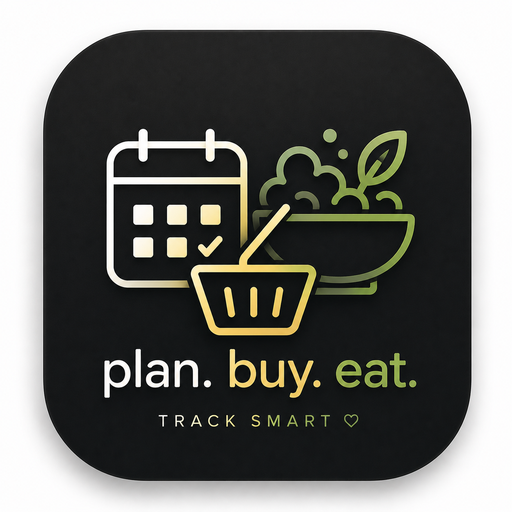
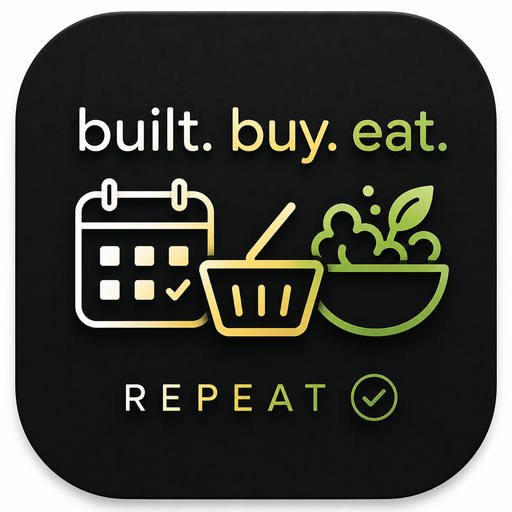
Add files via upload

diff --git a/index.html b/index.html
@@ -269,6 +269,15 @@ body{font-family:'Segoe UI',system-ui,-apple-system,sans-serif;background:var(--
 .recipe-expand.open{display:block}
 .recipe-ing-list{font-size:0.82rem;margin-bottom:10px}
 .recipe-ing-list div{padding:3px 0;border-bottom:1px solid var(--border)}
+.recipe-slot-group{margin-bottom:8px}
+.recipe-slot-label{font-size:0.72rem;font-weight:700;text-transform:uppercase;color:var(--text-light);margin-bottom:2px;display:flex;align-items:center;gap:4px}
+.recipe-slot-item{display:flex;align-items:center;justify-content:space-between;padding:4px 0}
+.recipe-slot-item .swap-btn{font-size:0.7rem;padding:2px 8px;border-radius:6px;border:1px solid var(--border);background:var(--bg);color:var(--text-light);cursor:pointer}
+.recipe-slot-item .swap-btn:hover{border-color:var(--primary);color:var(--primary)}
+.recipe-template-grid{display:grid;grid-template-columns:1fr 1fr;gap:8px;margin-bottom:12px}
+.recipe-template-btn{padding:10px;border:1.5px solid var(--border);border-radius:8px;background:var(--card);cursor:pointer;text-align:left;font-size:0.82rem;font-weight:600;transition:all .2s}
+.recipe-template-btn:hover{border-color:var(--primary);background:var(--primary-light)}
+.recipe-template-btn small{display:block;font-weight:400;color:var(--text-light);font-size:0.72rem;margin-top:2px}
 .recipe-totals{display:flex;gap:8px;flex-wrap:wrap;padding:8px 10px;background:var(--card);border-radius:8px;font-size:0.78rem;color:var(--text-light);margin-bottom:8px}
 .recipe-totals strong{color:var(--text)}
 .recipe-from-pantry{padding:16px 20px;background:var(--card);border-top:1px solid var(--border)}
@@ -573,14 +582,16 @@ body{font-family:'Segoe UI',system-ui,-apple-system,sans-serif;background:var(--
 <div class="modal-overlay" id="recipeModal">
   <div class="modal" style="max-width:540px">
     <h3 id="recipeModalTitle">Neues Rezept</h3>
+    <div id="rmTemplates"></div>
     <div class="form-group"><label>Rezeptname</label><input id="rmName" placeholder="z.B. Chili con Carne"></div>
-    <div class="form-group"><label>Gesamtportionen</label>
+    <div class="form-group"><label>Portionen</label>
       <div class="stepper" style="display:inline-flex"><button onclick="stepVal('rmPortions',-1,1)">-</button><input type="number" id="rmPortions" value="4" min="1" max="20" step="1"><button onclick="stepVal('rmPortions',1,1)">+</button></div>
     </div>
     <div class="form-group"><label>Zutaten</label><div id="rmIngredients"></div>
       <button style="margin-top:6px;padding:6px 12px;border-radius:8px;font-size:0.78rem;font-weight:600;cursor:pointer;border:1.5px solid var(--border);background:var(--bg);color:var(--text-light)" onclick="addRecipeIngRow()">+ Zutat</button>
     </div>
     <div class="recipe-totals" id="rmTotals"></div>
+    <div class="form-group"><label>Notizen (optional)</label><textarea id="rmNotizen" rows="2" placeholder="Zubereitungshinweise..." style="width:100%;padding:8px 12px;border:1.5px solid var(--border);border-radius:8px;font-size:0.85rem;font-family:inherit;resize:vertical"></textarea></div>
     <div class="modal-actions">
       <button class="btn-cancel" onclick="closeRecipeModal()">Abbrechen</button>
       <button class="btn-save" onclick="saveRecipe()">Speichern</button>
@@ -714,6 +725,51 @@ const CATEGORIES = [
   {id:'protein',label:'Protein'},{id:'legumes',label:'Hülsenfr.'},
   {id:'grains',label:'Getreide'},{id:'dairy',label:'Milch'},
   {id:'fats',label:'Fette'},{id:'other',label:'Sonstiges'},
+];
+
+const RECIPE_ROLES = [
+  {id:'protein',label:'Protein',icon:'🥩',cats:['protein','legumes']},
+  {id:'veg',label:'Gemüse',icon:'🥦',cats:['veg']},
+  {id:'beilage',label:'Beilage',icon:'🍚',cats:['grains']},
+  {id:'extras',label:'Extras',icon:'🫙',cats:['fats','dairy','other','fruit']}
+];
+
+const RECIPE_TEMPLATES = [
+  {name:'Gemüsepfanne',totalPortions:4,ingredients:[
+    {foodId:'chicken',amountG:400,rolle:'protein'},{foodId:'bellpepper',amountG:200,rolle:'veg'},
+    {foodId:'zucchini',amountG:200,rolle:'veg'},{foodId:'rice',amountG:320,rolle:'beilage'},
+    {foodId:'olive_oil',amountG:15,rolle:'extras'}
+  ],notizen:'Gemüse knackig anbraten, Reis separat kochen.'},
+  {name:'Pasta mit Sauce',totalPortions:4,ingredients:[
+    {foodId:'beef',amountG:300,rolle:'protein'},{foodId:'tomato',amountG:300,rolle:'veg'},
+    {foodId:'bellpepper',amountG:150,rolle:'veg'},{foodId:'pasta',amountG:320,rolle:'beilage'},
+    {foodId:'olive_oil',amountG:15,rolle:'extras'}
+  ],notizen:'Hack anbraten, Gemüse dazu, mit Tomaten köcheln.'},
+  {name:'Buddha Bowl',totalPortions:2,ingredients:[
+    {foodId:'tofu',amountG:200,rolle:'protein'},{foodId:'spinach',amountG:100,rolle:'veg'},
+    {foodId:'carrot',amountG:100,rolle:'veg'},{foodId:'avocado',amountG:75,rolle:'veg'},
+    {foodId:'quinoa',amountG:120,rolle:'beilage'},{foodId:'olive_oil',amountG:10,rolle:'extras'}
+  ],notizen:'Quinoa kochen, Tofu anbraten, alles in Bowl anrichten.'},
+  {name:'Salat mit Protein',totalPortions:2,ingredients:[
+    {foodId:'chicken',amountG:250,rolle:'protein'},{foodId:'iceberg',amountG:200,rolle:'veg'},
+    {foodId:'tomato',amountG:150,rolle:'veg'},{foodId:'cucumber',amountG:100,rolle:'veg'},
+    {foodId:'feta',amountG:60,rolle:'extras'},{foodId:'olive_oil',amountG:15,rolle:'extras'}
+  ],notizen:'Hähnchen braten, Salat anrichten, Dressing drüber.'},
+  {name:'Ofengemüse mit Beilage',totalPortions:4,ingredients:[
+    {foodId:'chicken',amountG:400,rolle:'protein'},{foodId:'sweetpotato',amountG:400,rolle:'veg'},
+    {foodId:'broccoli',amountG:300,rolle:'veg'},{foodId:'bellpepper',amountG:200,rolle:'veg'},
+    {foodId:'olive_oil',amountG:20,rolle:'extras'}
+  ],notizen:'Alles würzen, bei 200°C ca. 25 Min. im Ofen.'},
+  {name:'Eintopf / Suppe',totalPortions:6,ingredients:[
+    {foodId:'red_lentils',amountG:200,rolle:'protein'},{foodId:'carrot',amountG:200,rolle:'veg'},
+    {foodId:'zucchini',amountG:200,rolle:'veg'},{foodId:'potato',amountG:300,rolle:'beilage'},
+    {foodId:'olive_oil',amountG:15,rolle:'extras'}
+  ],notizen:'Alles in Topf, mit Brühe aufgießen, 20 Min. köcheln.'},
+  {name:'Wrap / Tortilla',totalPortions:4,ingredients:[
+    {foodId:'chicken',amountG:300,rolle:'protein'},{foodId:'iceberg',amountG:100,rolle:'veg'},
+    {foodId:'tomato',amountG:150,rolle:'veg'},{foodId:'bellpepper',amountG:100,rolle:'veg'},
+    {foodId:'gouda',amountG:60,rolle:'extras'}
+  ],notizen:'Hähnchen braten, alles in Tortilla wickeln.'}
 ];
 
 // ============================================================
@@ -1656,9 +1712,22 @@ function renderRecipes() {
   if (recipes.length===0) { h='<div class="plan-empty">Noch keine Rezepte erstellt.</div>'; }
   else { recipes.forEach(r => {
     const ex=expandedRecipe===r.id, n=recipeNutritionPerPortion(r);
-    h+='<div class="recipe-card"><div class="recipe-main" onclick="toggleRecipeExpand(\''+r.id+'\')"><div><div class="recipe-name">'+r.name+'</div><div class="recipe-meta">'+r.totalPortions+' Portionen | '+r.ingredients.length+' Zutaten | '+n.kcal+'kcal/Port.</div></div><button class="food-add-btn">'+(ex?'&minus;':'+')+'</button></div>';
+    h+='<div class="recipe-card"><div class="recipe-main" onclick="toggleRecipeExpand(\''+r.id+'\')"><div><div class="recipe-name">'+r.name+'</div><div class="recipe-meta">'+r.totalPortions+' Portionen | '+r.ingredients.length+' Zutaten | '+n.kcal+' kcal/Port.</div></div><button class="food-add-btn">'+(ex?'&minus;':'+')+'</button></div>';
     if (ex) {
-      h+='<div class="recipe-expand open"><div class="recipe-ing-list">'+r.ingredients.map(ing=>{const f=getFood(ing.foodId);return '<div>'+ing.amountG+'g '+(f?f.n:'?')+'</div>';}).join('')+'</div>';
+      h+='<div class="recipe-expand open">';
+      // Group ingredients by rolle
+      var grouped={};
+      r.ingredients.forEach(function(ing){var role=ing.rolle||'extras';if(!grouped[role])grouped[role]=[];grouped[role].push(ing);});
+      RECIPE_ROLES.forEach(function(role){
+        var items=grouped[role.id];if(!items||items.length===0)return;
+        h+='<div class="recipe-slot-group"><div class="recipe-slot-label">'+role.icon+' '+role.label+'</div>';
+        items.forEach(function(ing,ii){
+          var f=getFood(ing.foodId);
+          h+='<div class="recipe-slot-item"><span>'+ing.amountG+'g '+(f?f.n:'?')+'</span><button class="swap-btn" onclick="event.stopPropagation();openSwapUI(\''+r.id+'\',\''+role.id+'\','+r.ingredients.indexOf(ing)+')">&#8644;</button></div>';
+        });
+        h+='</div>';
+      });
+      if(r.notizen) h+='<div style="font-size:0.8rem;color:var(--text-light);margin:8px 0;font-style:italic">'+r.notizen+'</div>';
       h+='<div class="recipe-totals">Pro Portion: <strong>'+n.kcal+' kcal</strong> | '+n.p+'g E | '+n.f+'g F | '+n.c+'g KH</div>';
       h+='<button class="btn-add" onclick="addRecipeToShop(\''+r.id+'\')">Zutaten einkaufen</button>';
       h+='<div class="food-expand-actions"><button onclick="addRecipeToPlan(\''+r.id+'\')">Zum Wochenplan</button><button onclick="openRecipeModal(\''+r.id+'\')">Bearbeiten</button><button class="btn-delete" onclick="deleteRecipe(\''+r.id+'\')">Löschen</button></div></div>';
@@ -1871,46 +1940,115 @@ document.getElementById('customModal').addEventListener('click',function(e){if(e
 // ===== RECIPE MODAL =====
 function openRecipeModal(recipeId) {
   editingRecipeId=recipeId||null; recipeIngRows=[];
-  if(editingRecipeId){const r=getRecipe(editingRecipeId);if(!r)return;document.getElementById('rmName').value=r.name;document.getElementById('rmPortions').value=r.totalPortions;recipeIngRows=r.ingredients.map(i=>({foodId:i.foodId,amountG:i.amountG}));document.getElementById('recipeModalTitle').textContent='Rezept bearbeiten';}
-  else{document.getElementById('rmName').value='';document.getElementById('rmPortions').value='4';recipeIngRows=[{foodId:'',amountG:100}];document.getElementById('recipeModalTitle').textContent='Neues Rezept';}
+  if(editingRecipeId){
+    const r=getRecipe(editingRecipeId);if(!r)return;
+    document.getElementById('rmName').value=r.name;
+    document.getElementById('rmPortions').value=r.totalPortions;
+    document.getElementById('rmNotizen').value=r.notizen||'';
+    recipeIngRows=r.ingredients.map(function(i){return{foodId:i.foodId,amountG:i.amountG,rolle:i.rolle||'extras'};});
+    document.getElementById('recipeModalTitle').textContent='Rezept bearbeiten';
+  } else {
+    document.getElementById('rmName').value='';document.getElementById('rmPortions').value='4';
+    document.getElementById('rmNotizen').value='';
+    recipeIngRows=[{foodId:'',amountG:100,rolle:'protein'}];
+    document.getElementById('recipeModalTitle').textContent='Neues Rezept';
+  }
+  renderTemplateButtons();
   renderRecipeIngRows(); document.getElementById('recipeModal').classList.add('open');
 }
 function closeRecipeModal(){document.getElementById('recipeModal').classList.remove('open');editingRecipeId=null;}
 document.getElementById('recipeModal').addEventListener('click',function(e){if(e.target===this)closeRecipeModal();});
-function addRecipeIngRow(){recipeIngRows.push({foodId:'',amountG:100});renderRecipeIngRows();}
+
+function renderTemplateButtons() {
+  if(editingRecipeId){document.getElementById('rmTemplates').innerHTML='';return;}
+  var h='<div style="margin-bottom:12px"><div style="font-size:0.75rem;font-weight:700;text-transform:uppercase;letter-spacing:0.04em;color:var(--text-muted);margin-bottom:6px">Vorlage wählen</div><div class="recipe-template-grid">';
+  RECIPE_TEMPLATES.forEach(function(t,i){
+    h+='<button class="recipe-template-btn" onclick="loadTemplate('+i+')">'+t.name+'</button>';
+  });
+  h+='</div></div>';
+  document.getElementById('rmTemplates').innerHTML=h;
+}
+
+function loadTemplate(idx) {
+  var t=RECIPE_TEMPLATES[idx];if(!t)return;
+  document.getElementById('rmName').value=t.name;
+  document.getElementById('rmPortions').value=t.totalPortions;
+  document.getElementById('rmNotizen').value=t.notizen||'';
+  recipeIngRows=t.ingredients.map(function(i){return{foodId:i.foodId,amountG:i.amountG,rolle:i.rolle||'extras'};});
+  renderRecipeIngRows();
+  showToast('Vorlage "'+t.name+'" geladen');
+}
+
+function addRecipeIngRow(){recipeIngRows.push({foodId:'',amountG:100,rolle:'protein'});renderRecipeIngRows();}
 function removeRecipeIngRow(idx){recipeIngRows.splice(idx,1);renderRecipeIngRows();}
 
 function renderRecipeIngRows() {
-  const af=foods.filter(f=>!deletedFoods.has(f.id)).sort((a,b)=>a.n.localeCompare(b.n,'de'));
-  const opts='<option value="">-- Wählen --</option>'+af.map(f=>'<option value="'+f.id+'">'+f.n+'</option>').join('');
-  document.getElementById('rmIngredients').innerHTML=recipeIngRows.map((row,i)=>
-    '<div class="recipe-ing-row"><select onchange="recipeIngRows['+i+'].foodId=this.value;updateRecipeTotals()">'+opts.replace('value="'+row.foodId+'"','value="'+row.foodId+'" selected')+'</select><input type="number" value="'+row.amountG+'" min="1" step="10" placeholder="g" onchange="recipeIngRows['+i+'].amountG=parseInt(this.value)||0;updateRecipeTotals()"><span style="font-size:0.78rem;color:var(--text-light)">g</span><button onclick="removeRecipeIngRow('+i+')">&times;</button></div>'
-  ).join('');
+  var af=foods.filter(function(f){return !deletedFoods.has(f.id);}).sort(function(a,b){return a.n.localeCompare(b.n,'de');});
+  var foodOpts='<option value="">-- Wählen --</option>'+af.map(function(f){return '<option value="'+f.id+'">'+f.n+'</option>';}).join('');
+  var roleOpts=RECIPE_ROLES.map(function(r){return '<option value="'+r.id+'">'+r.icon+' '+r.label+'</option>';}).join('');
+  document.getElementById('rmIngredients').innerHTML=recipeIngRows.map(function(row,i){
+    return '<div class="recipe-ing-row" style="display:flex;gap:4px;align-items:center;margin-bottom:4px">'
+      +'<select style="width:80px;flex-shrink:0" onchange="recipeIngRows['+i+'].rolle=this.value">'+roleOpts.replace('value="'+row.rolle+'"','value="'+row.rolle+'" selected')+'</select>'
+      +'<select style="flex:1" onchange="recipeIngRows['+i+'].foodId=this.value;updateRecipeTotals()">'+foodOpts.replace('value="'+row.foodId+'"','value="'+row.foodId+'" selected')+'</select>'
+      +'<input type="number" value="'+row.amountG+'" min="1" step="10" placeholder="g" style="width:55px" onchange="recipeIngRows['+i+'].amountG=parseInt(this.value)||0;updateRecipeTotals()">'
+      +'<span style="font-size:0.78rem;color:var(--text-light)">g</span>'
+      +'<button onclick="removeRecipeIngRow('+i+')" style="background:none;border:none;font-size:1.1rem;cursor:pointer;color:var(--danger);padding:2px 4px">&times;</button></div>';
+  }).join('');
   updateRecipeTotals();
 }
 
 function updateRecipeTotals() {
-  const portions=parseInt(document.getElementById('rmPortions')?.value)||1;
-  let t={kcal:0,p:0,f:0,c:0};
-  recipeIngRows.forEach(row=>{const food=getFood(row.foodId);if(!food)return;const m=row.amountG/100;t.kcal+=food.k*m;t.p+=food.p*m;t.f+=food.f*m;t.c+=food.c*m;});
+  var portions=parseInt(document.getElementById('rmPortions')?.value)||1;
+  var t={kcal:0,p:0,f:0,c:0};
+  recipeIngRows.forEach(function(row){var food=getFood(row.foodId);if(!food)return;var m=row.amountG/100;t.kcal+=food.k*m;t.p+=food.p*m;t.f+=food.f*m;t.c+=food.c*m;});
   document.getElementById('rmTotals').innerHTML='Pro Portion: <strong>'+Math.round(t.kcal/portions)+' kcal</strong> | '+Math.round(t.p/portions)+'g E | '+Math.round(t.f/portions)+'g F | '+Math.round(t.c/portions)+'g KH';
 }
 
 function saveRecipe() {
-  const name=document.getElementById('rmName').value.trim();
+  var name=document.getElementById('rmName').value.trim();
   if(!name){showToast('Bitte Rezeptname eingeben');return;}
-  const totalPortions=parseInt(document.getElementById('rmPortions').value)||4;
-  const ingredients=recipeIngRows.filter(r=>r.foodId&&r.amountG>0).map(r=>({foodId:r.foodId,amountG:r.amountG}));
+  var totalPortions=parseInt(document.getElementById('rmPortions').value)||4;
+  var notizen=document.getElementById('rmNotizen').value.trim();
+  var ingredients=recipeIngRows.filter(function(r){return r.foodId&&r.amountG>0;}).map(function(r){return{foodId:r.foodId,amountG:r.amountG,rolle:r.rolle||'extras'};});
   if(ingredients.length===0){showToast('Mindestens eine Zutat');return;}
-  if(editingRecipeId){const r=getRecipe(editingRecipeId);if(r){r.name=name;r.totalPortions=totalPortions;r.ingredients=ingredients;}showToast(name+' aktualisiert!');}
-  else{recipes.push({id:'recipe_'+Date.now(),name,totalPortions,ingredients});showToast(name+' erstellt!');}
+  if(editingRecipeId){var r=getRecipe(editingRecipeId);if(r){r.name=name;r.totalPortions=totalPortions;r.ingredients=ingredients;r.notizen=notizen;}showToast(name+' aktualisiert!');}
+  else{recipes.push({id:'recipe_'+Date.now(),name:name,totalPortions:totalPortions,ingredients:ingredients,notizen:notizen});showToast(name+' erstellt!');}
   closeRecipeModal(); render();
 }
 
 function deleteRecipe(recipeId) {
-  const r=getRecipe(recipeId);if(!r||!confirm(r.name+' löschen?'))return;
-  recipes=recipes.filter(rc=>rc.id!==recipeId);plan=plan.filter(p=>p.recipeId!==recipeId);
+  var r=getRecipe(recipeId);if(!r||!confirm(r.name+' löschen?'))return;
+  recipes=recipes.filter(function(rc){return rc.id!==recipeId;});plan=plan.filter(function(p){return p.recipeId!==recipeId;});
   expandedRecipe=null;showToast(r.name+' gelöscht');render();
+}
+
+// Swap UI: replace an ingredient in a recipe
+function openSwapUI(recipeId,roleId,ingIdx) {
+  var r=getRecipe(recipeId);if(!r)return;
+  var role=RECIPE_ROLES.find(function(ro){return ro.id===roleId;});if(!role)return;
+  var currentIng=r.ingredients[ingIdx];
+  // Filter foods by role categories
+  var candidates=foods.filter(function(f){return !deletedFoods.has(f.id)&&role.cats.indexOf(f.cat)>=0;}).sort(function(a,b){return a.n.localeCompare(b.n,'de');});
+  var h='<div class="modal-overlay open" id="swapOverlay" onclick="if(event.target===this)this.remove()"><div class="modal" style="max-width:400px"><h3>'+role.icon+' '+role.label+' tauschen</h3>';
+  h+='<div style="max-height:300px;overflow-y:auto">';
+  candidates.forEach(function(f){
+    var isCurrent=f.id===currentIng.foodId;
+    h+='<div style="display:flex;justify-content:space-between;align-items:center;padding:8px 4px;border-bottom:1px solid var(--border);'+(isCurrent?'background:var(--primary-light);border-radius:6px;':'')+'">';
+    h+='<div><strong>'+f.n+'</strong><div style="font-size:0.72rem;color:var(--text-muted)">'+f.k+' kcal | '+f.p+'g E | '+f.f+'g F | '+f.c+'g KH /100g</div></div>';
+    if(!isCurrent) h+='<button class="btn-add" style="font-size:0.75rem;padding:4px 10px" onclick="doSwap(\''+recipeId+'\','+ingIdx+',\''+f.id+'\')">Wählen</button>';
+    else h+='<span style="font-size:0.72rem;color:var(--primary);font-weight:600">Aktuell</span>';
+    h+='</div>';
+  });
+  h+='</div><div class="modal-actions"><button class="btn-cancel" onclick="document.getElementById(\'swapOverlay\').remove()">Abbrechen</button></div></div></div>';
+  document.body.insertAdjacentHTML('beforeend',h);
+}
+
+function doSwap(recipeId,ingIdx,newFoodId) {
+  var r=getRecipe(recipeId);if(!r||!r.ingredients[ingIdx])return;
+  r.ingredients[ingIdx].foodId=newFoodId;
+  var el=document.getElementById('swapOverlay');if(el)el.remove();
+  saveState(); renderRecipes();
+  var f=getFood(newFoodId);showToast('Getauscht zu '+(f?f.n:''));
 }
 
 // ===== ARCHIVE =====
@@ -2034,6 +2172,15 @@ function toggleDarkMode(on) {
 // ===== INIT =====
 const hasProfile = loadState();
 migrateCustomToStandard();
+// Seed template recipes if none exist
+if (recipes.length===0) {
+  RECIPE_TEMPLATES.forEach(function(t,i){
+    recipes.push({id:'tmpl_'+i+'_'+Date.now(),name:t.name,totalPortions:t.totalPortions,
+      ingredients:t.ingredients.map(function(ing){return{foodId:ing.foodId,amountG:ing.amountG,rolle:ing.rolle};}),
+      notizen:t.notizen||''});
+  });
+  if(hasProfile) saveState();
+}
 if (hasProfile && profile) showMainApp();
 else showOnboarding();
 

diff --git a/sw.js b/sw.js
@@ -1,4 +1,4 @@
-const CACHE_NAME = 'eb-cache-v12';
+const CACHE_NAME = 'eb-cache-v14';
 const ASSETS = [
   './',
   './index.html',